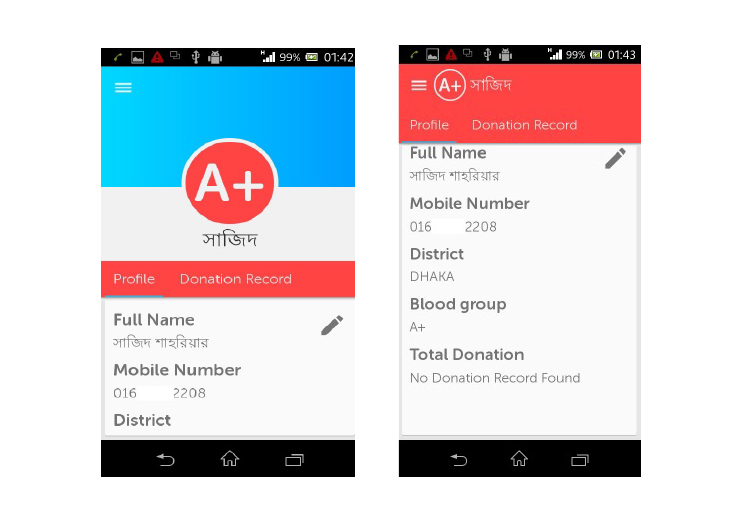
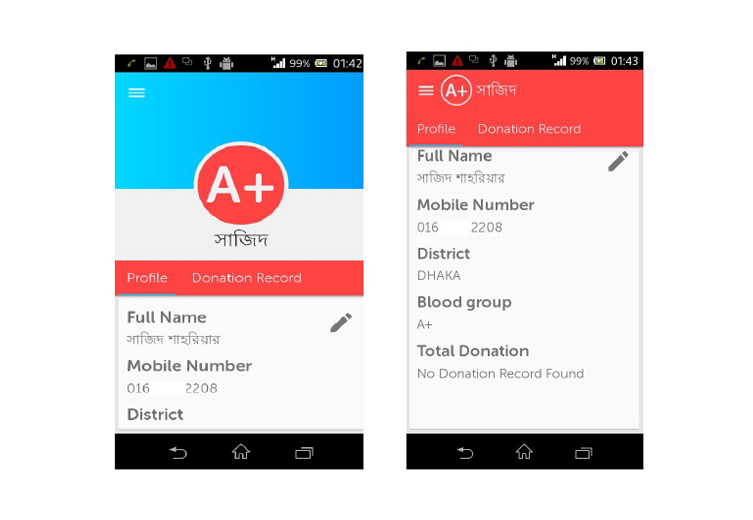
Updated background history and Image position changed

diff --git a/README.md b/README.md
@@ -66,7 +66,7 @@ Every second there is someone who needs blood. It is an urgent need for any kind
 * [Donate Life - Openshift Deployable Codebase](https://github.com/coderbdsust/Donate_life_Server "Donate Life Openshift Deployable Codebase")
 
 ## Achievements and Project Background
-This software was presented at Therap Java Fest 2014. It was a software competition organized by Therap Services in 2014 nationwide in Bangladesh. In this competition students can submit their idea and get several months for developing this idea as a full working product. We submitted our idea as a team named Blue Pandora and after accepting the idea we developed the product and presented it in the final round. Our team was first runner up in that competition.  
+This software was presented at Therap Java Fest 2014. It was a software competition organized by Therap Services in 2014 nationwide in Bangladesh. In this competition, students can submit their idea and get several months for developing this idea as a fully working product. We submitted our idea as a team named Blue Pandora and after accepting the idea we developed the product and presented it in the final round. Our team was the first runner up in that competition.  
 
 * Team - Blue Pandora
 ![Team - Blue Pandora](https://github.com/coderbdsust/Donate_Life/blob/master/features-images/Donate-Life-Developer-With-Designation.jpg "Blue Pandora")
